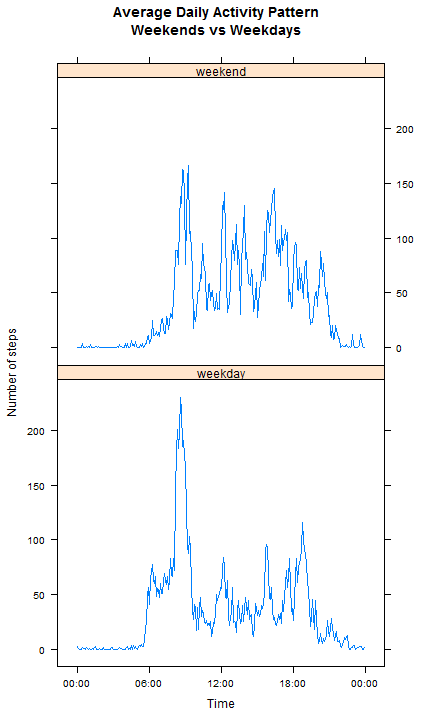
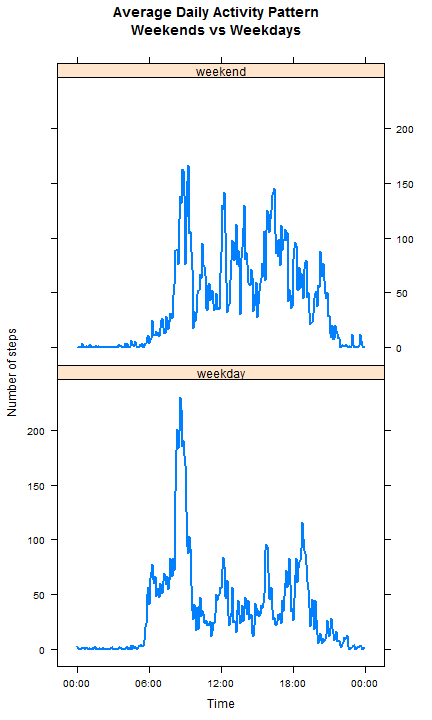
- Added title to missing-value mean-substituted imputation comparison - Changed line width on weekend/weekday comparison line plots

diff --git a/PA1_template.html b/PA1_template.html
@@ -414,11 +414,15 @@ summary(stepsSubsDailyAggregate$x)
 </code></pre>
 
 <pre><code class="r">par (mfrow = c(1, 2))
-boxplot(stepsDailyAggregate$x)
-boxplot(stepsSubsDailyAggregate$x)
+boxplot(stepsDailyAggregate$x,
+        main=&quot;Daily Aggregated Summary&quot;,
+        ylab=&quot;Total Daily Steps&quot;)
+boxplot(stepsSubsDailyAggregate$x,
+        main=&quot;Missing-Value Mean-Substituted\nDaily Aggregated Summary&quot;,
+        ylab=&quot;Total Daily Steps&quot;)
 </code></pre>
 
[2 lines of base64/hex data omitted]
 
 <h2>Are there differences in activity patterns between weekdays and weekends?</h2>
 
@@ -460,6 +464,7 @@ xyplot(dayTypeIntervalAggregate$x~dayTypeIntervalAggregate$intervalTimes2|dayTyp
     main =&quot;Average Daily Activity Pattern\nWeekends vs Weekdays&quot;,
     xlab =&quot;Time&quot;,
     ylab =&quot;Number of steps&quot;,
+    lwd = 2,
     scales=list(
      x=list(at= seq(as.POSIXct(dayTypeIntervalAggregate$intervalTimes2[1]), by=&quot;6 hour&quot;, length=5), 
      labels=format(seq(as.POSIXct(dayTypeIntervalAggregate$intervalTimes2[1]), by=&quot;6 hour&quot;, length=5),
@@ -468,7 +473,7 @@ xyplot(dayTypeIntervalAggregate$x~dayTypeIntervalAggregate$intervalTimes2|dayTyp
     layout=c(1,2))
 </code></pre>
 
[2 lines of base64/hex data omitted]
 
 </body>
 

diff --git a/PA1_template.md b/PA1_template.md
@@ -237,8 +237,12 @@ summary(stepsSubsDailyAggregate$x)
 
 ```r
 par (mfrow = c(1, 2))
-boxplot(stepsDailyAggregate$x)
-boxplot(stepsSubsDailyAggregate$x)
+boxplot(stepsDailyAggregate$x,
+        main="Daily Aggregated Summary",
+        ylab="Total Daily Steps")
+boxplot(stepsSubsDailyAggregate$x,
+        main="Missing-Value Mean-Substituted\nDaily Aggregated Summary",
+        ylab="Total Daily Steps")
 ```
 
 <img src="figure/ImputationSummaryCompare-1.png" title="plot of chunk ImputationSummaryCompare" alt="plot of chunk ImputationSummaryCompare" style="display: block; margin: auto;" />
@@ -285,6 +289,7 @@ xyplot(dayTypeIntervalAggregate$x~dayTypeIntervalAggregate$intervalTimes2|dayTyp
     main ="Average Daily Activity Pattern\nWeekends vs Weekdays",
     xlab ="Time",
     ylab ="Number of steps",
+    lwd = 2,
     scales=list(
      x=list(at= seq(as.POSIXct(dayTypeIntervalAggregate$intervalTimes2[1]), by="6 hour", length=5), 
      labels=format(seq(as.POSIXct(dayTypeIntervalAggregate$intervalTimes2[1]), by="6 hour", length=5),
